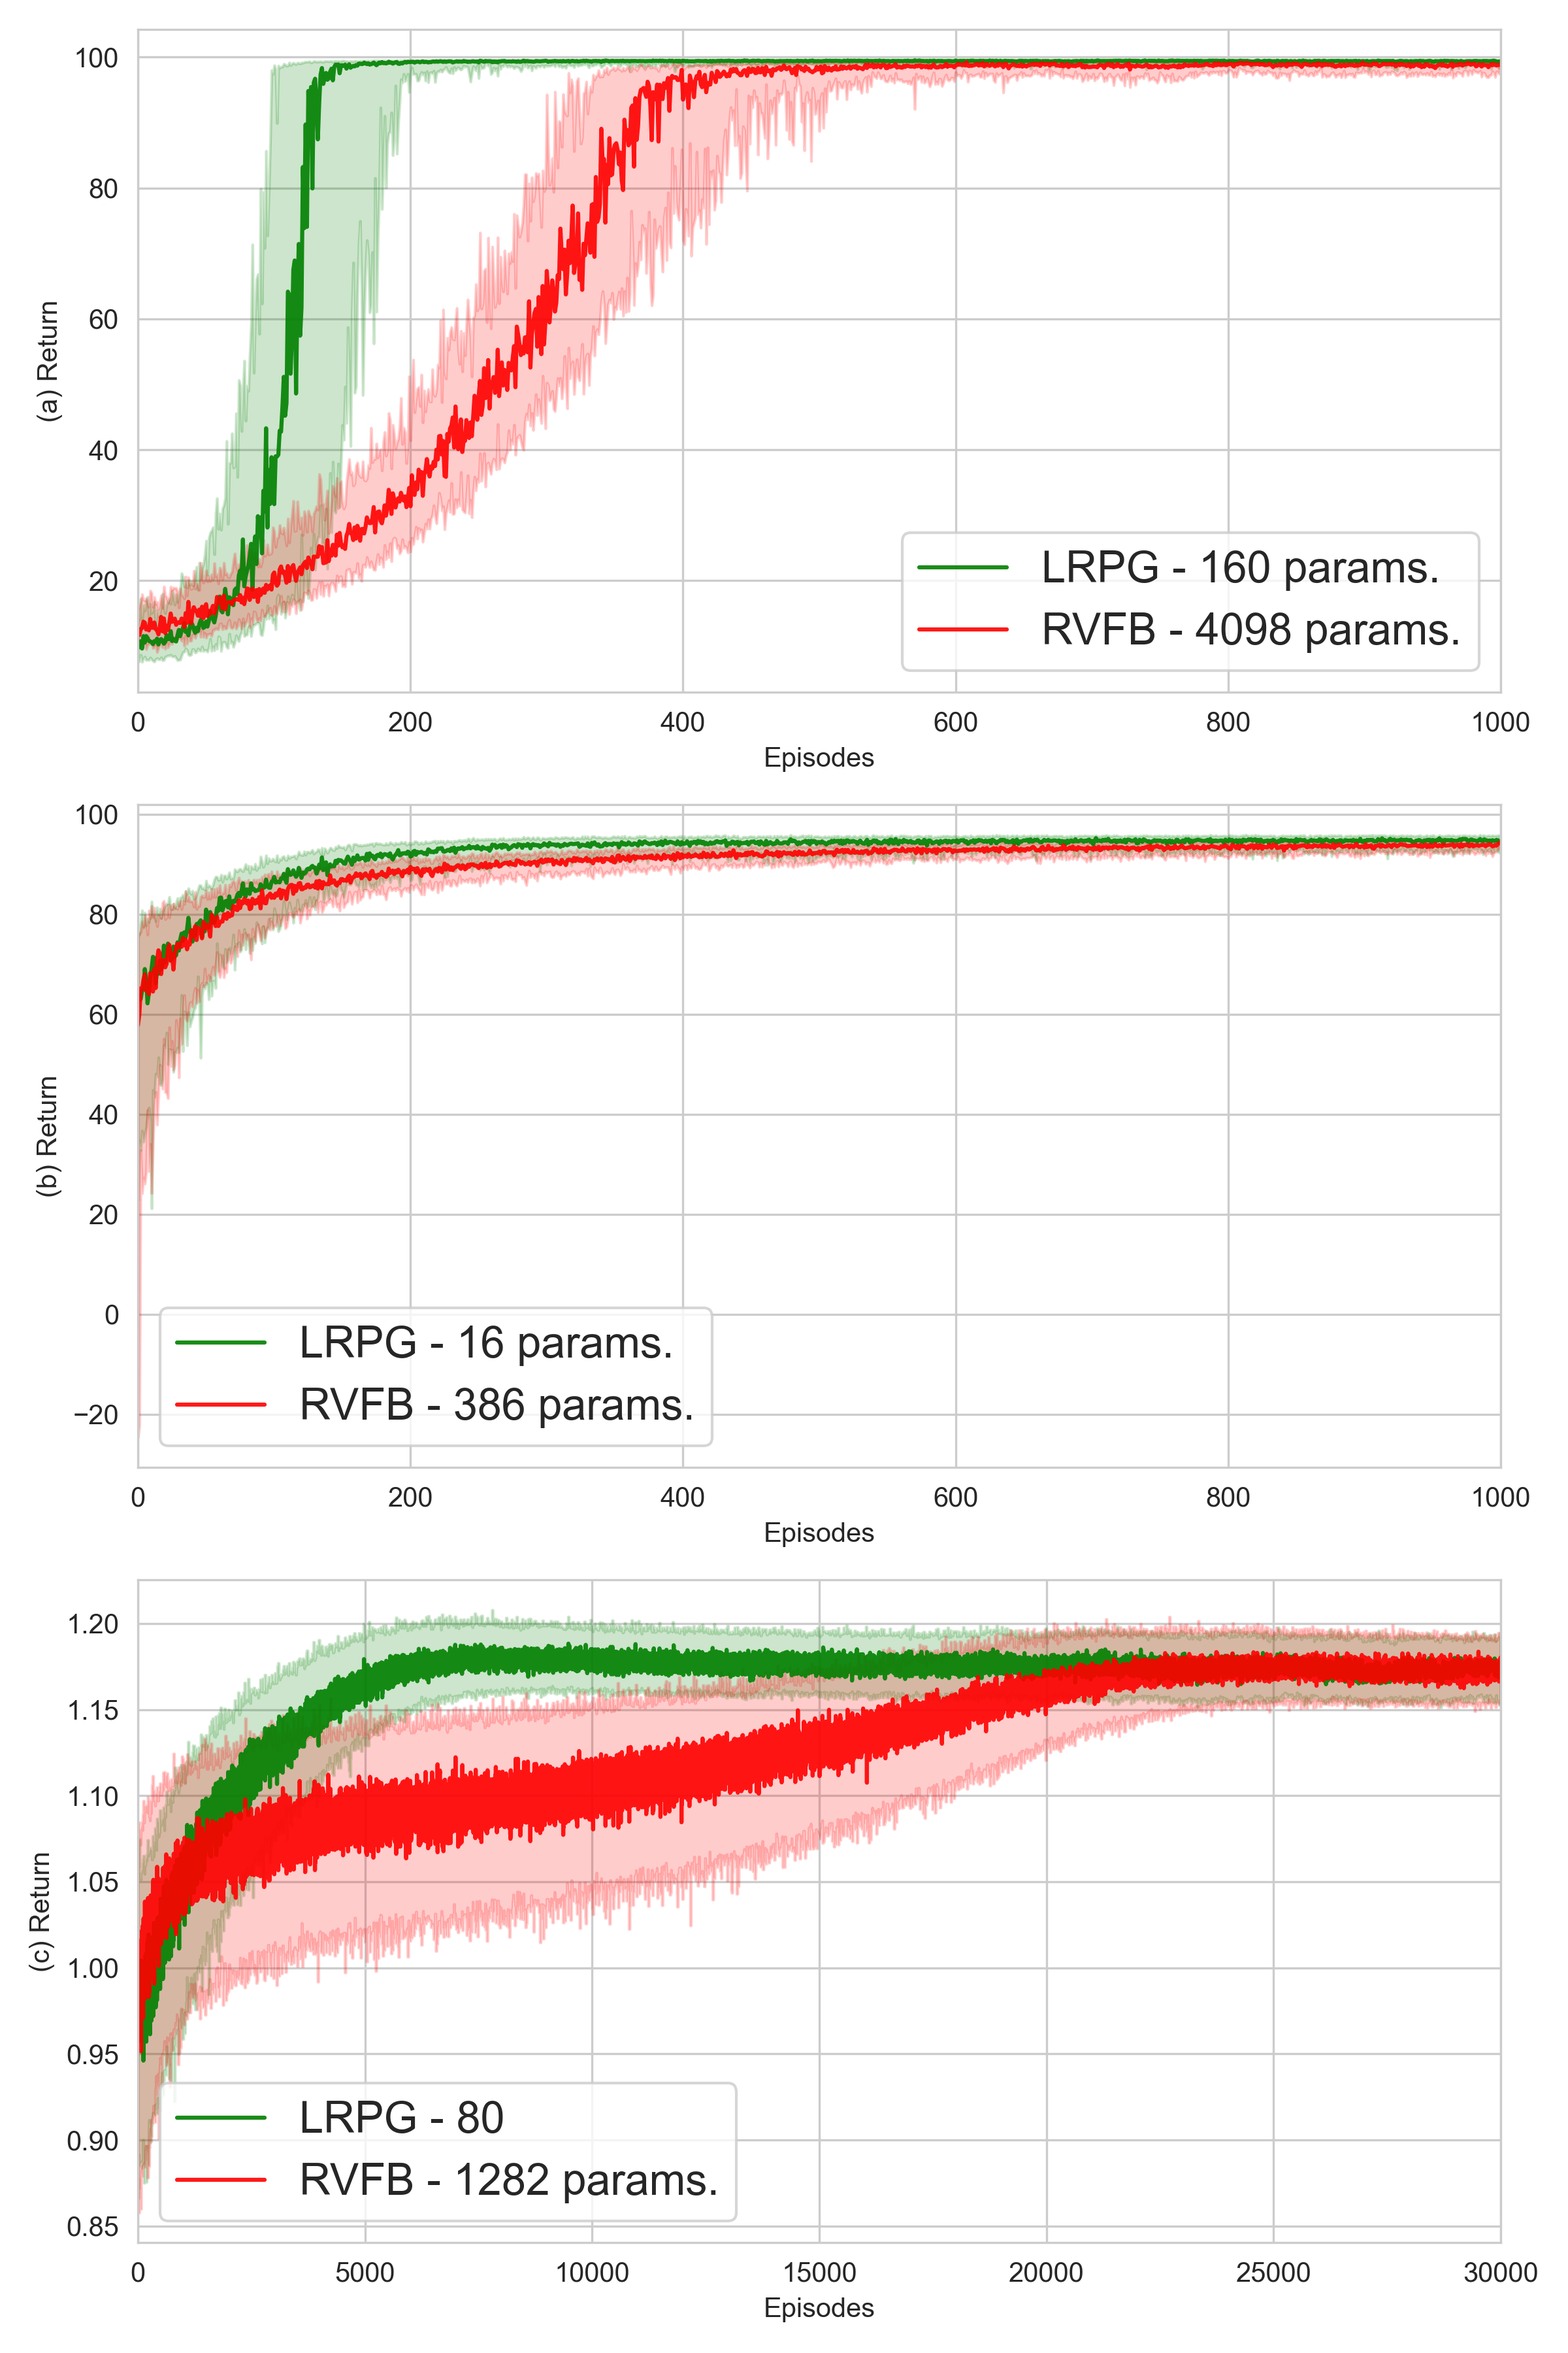
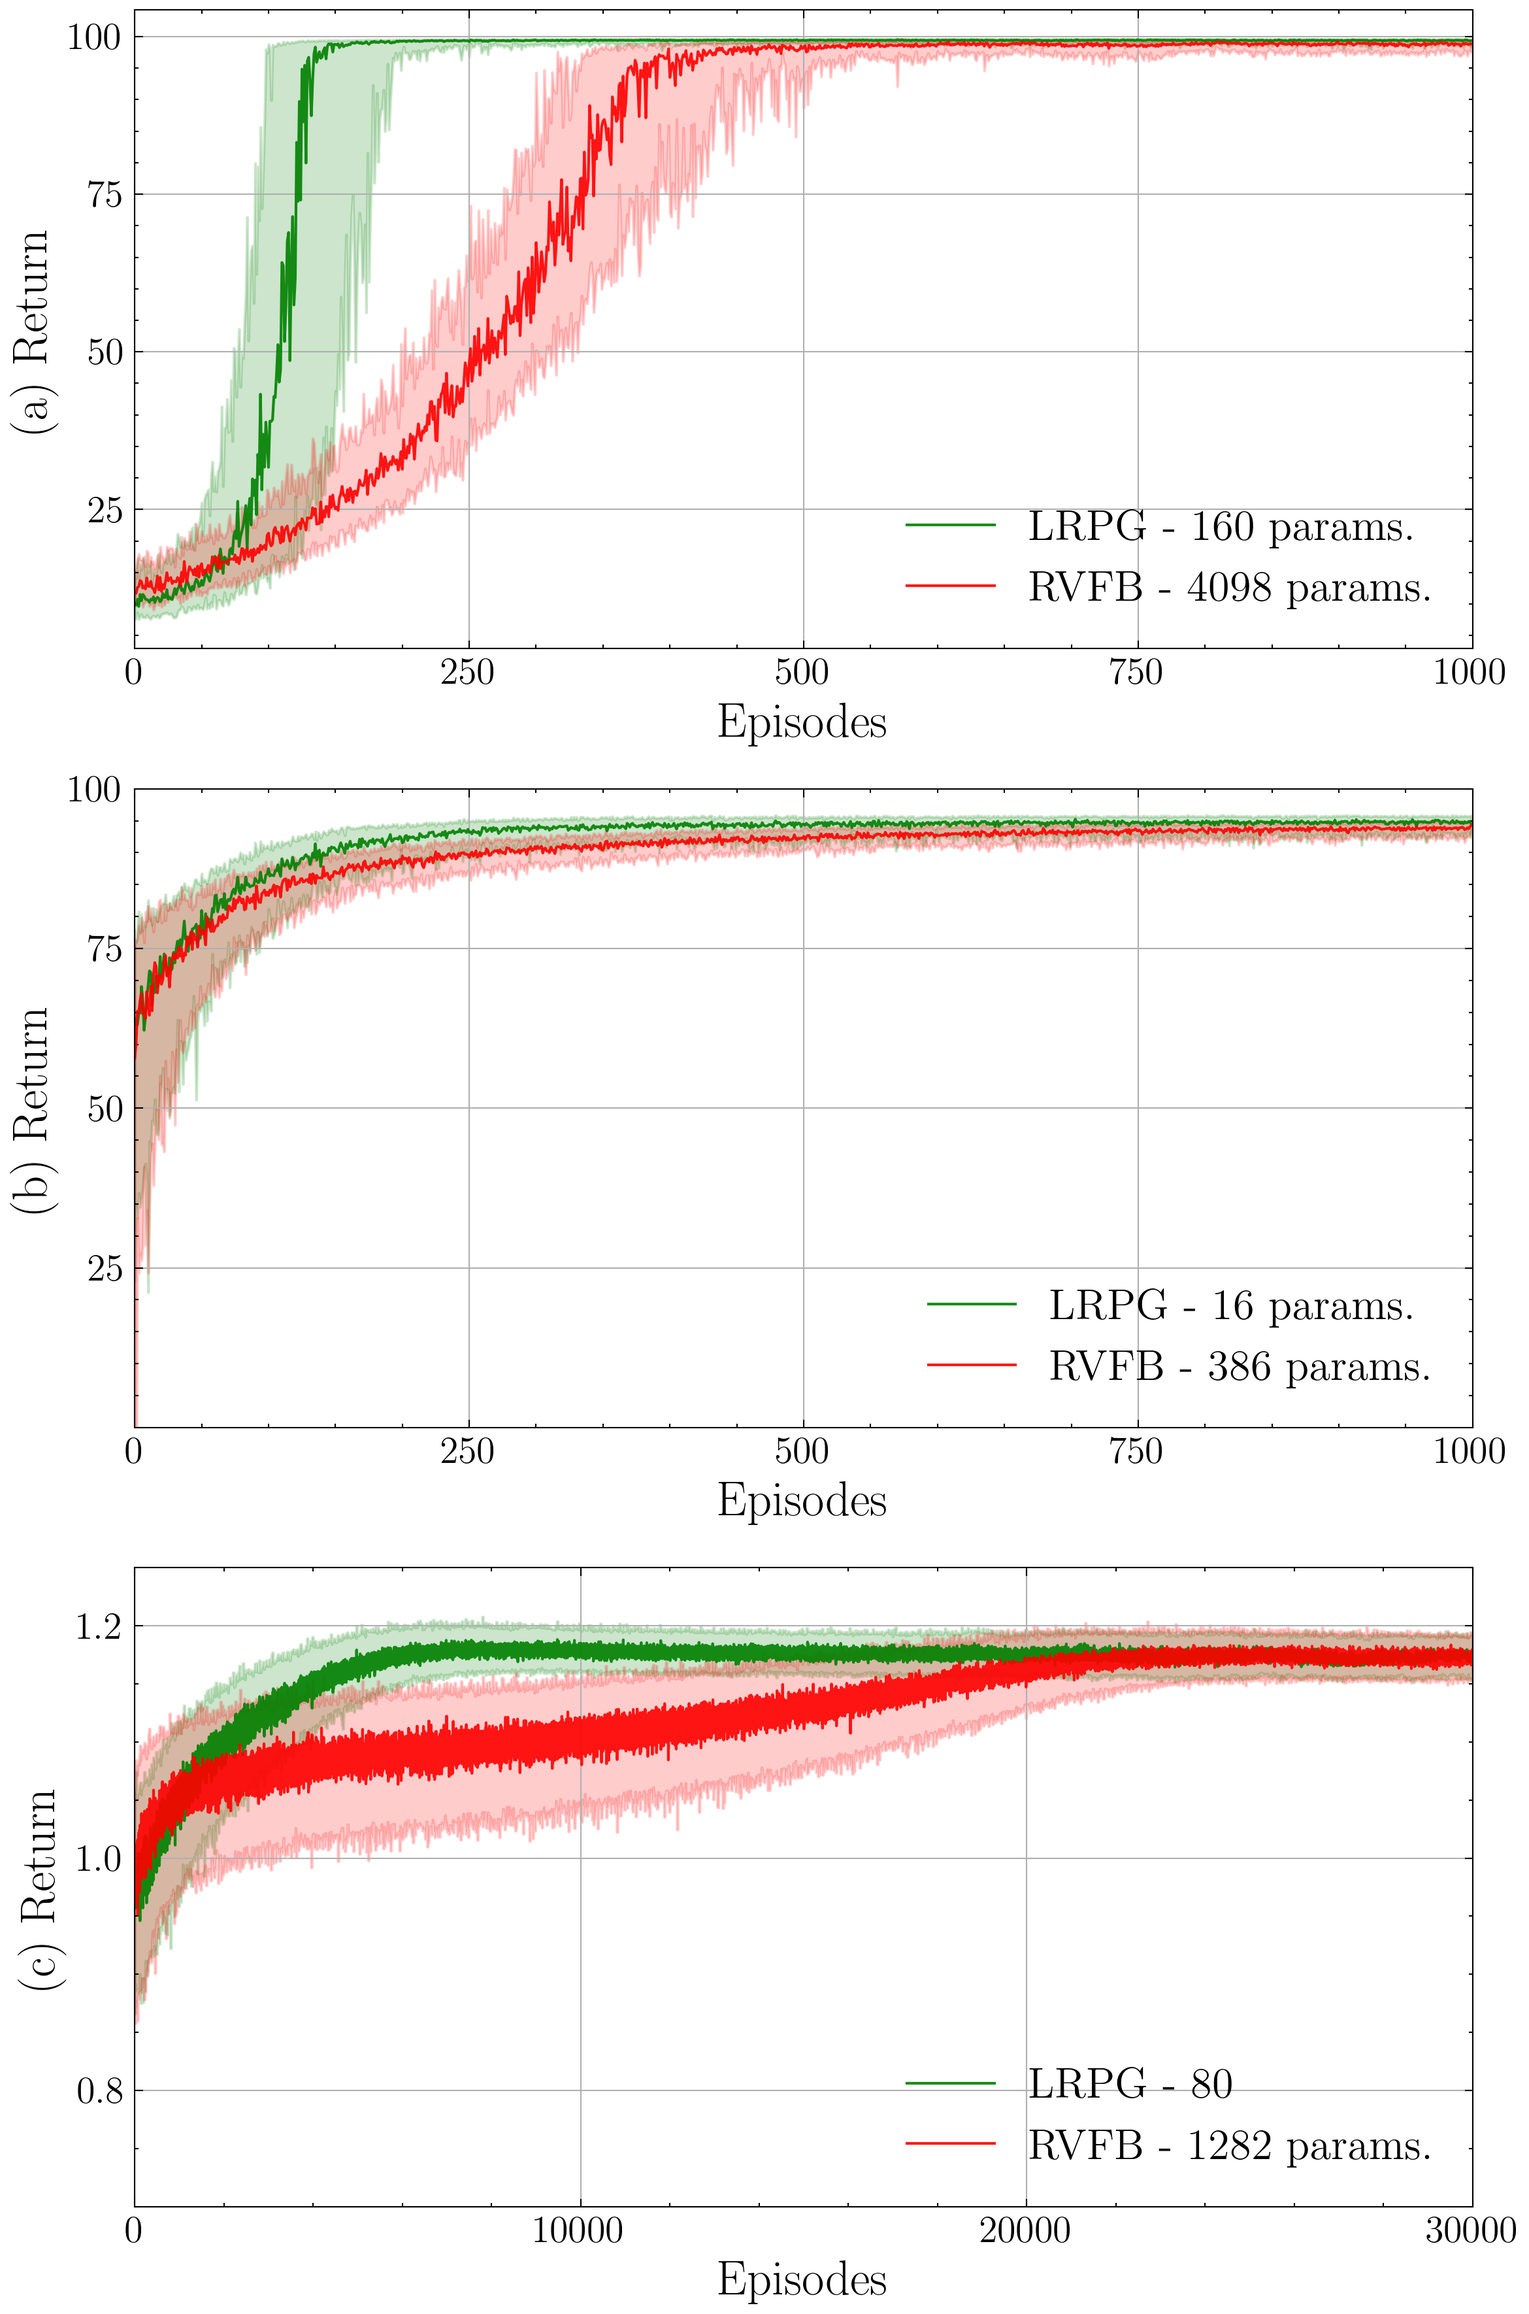
features: improvement in plots

diff --git a/4_plot.py b/4_plot.py
@@ -39,38 +39,51 @@ if __name__ == "__main__":
     acro_time = np.arange(acro_nn.size)
     rock_time = np.arange(rock_nn.size)
 
-    fig, ax = plt.subplots(3, figsize=[8, 12])
+    with plt.style.context(['science'], ['ieee']):
+        fig, ax = plt.subplots(3, figsize=[8, 12])
 
-    plt.rc('axes', titlesize=16)     # fontsize of the axes title
-    plt.rc('axes', labelsize=16)    # fontsize of the x and y labels
-    plt.rc('legend', fontsize=16)    # legend fontsize
+        plt.rc('legend', fontsize=16)    # legend fontsize
 
-    ax[0].plot(pend_time, pend_lr, color='g', label='LRPG - 160 params.', alpha=ALPHA)
-    ax[0].fill_between(pend_time, pend_lr_low, pend_lr_up, color='g', alpha=ALPHA_BACK)
-    ax[0].plot(pend_time, pend_nn, color='r', label='RVFB - 4098 params.', alpha=ALPHA)
-    ax[0].fill_between(pend_time, pend_nn_low, pend_nn_up, color='r', alpha=ALPHA_BACK)
-    ax[0].set_ylabel('(a) Return')
-    ax[0].set_xlabel('Episodes')
-    ax[0].set_xlim(0, 1000)
-    ax[0].legend()
+        ax[0].plot(pend_time, pend_lr, color='g', label='LRPG - 160 params.', alpha=ALPHA)
+        ax[0].fill_between(pend_time, pend_lr_low, pend_lr_up, color='g', alpha=ALPHA_BACK)
+        ax[0].plot(pend_time, pend_nn, color='r', label='RVFB - 4098 params.', alpha=ALPHA)
+        ax[0].fill_between(pend_time, pend_nn_low, pend_nn_up, color='r', alpha=ALPHA_BACK)
+        ax[0].set_ylabel('(a) Return', fontsize=18)
+        ax[0].set_xlabel('Episodes', fontsize=18)
+        ax[0].set_xlim(0, 1000)
+        ax[0].legend(loc='lower right')
+        ax[0].set_xticks([0, 250, 500, 750, 1000])
+        ax[0].set_yticks([25, 50, 75, 100])
+        ax[0].tick_params(axis='both', which='major', labelsize=14)
+        ax[0].grid()
 
-    ax[1].plot(acro_time, acro_lr, color='g', label='LRPG - 16 params.', alpha=ALPHA)
-    ax[1].fill_between(acro_time, acro_lr_low, acro_lr_up, color='g', alpha=ALPHA_BACK)
-    ax[1].plot(acro_time, acro_nn, color='r', label='RVFB - 386 params.', alpha=ALPHA)
-    ax[1].fill_between(acro_time, acro_nn_low, acro_nn_up, color='r', alpha=ALPHA_BACK)
-    ax[1].set_ylabel('(b) Return')
-    ax[1].set_xlabel('Episodes')
-    ax[1].set_xlim(0, 1000)
-    ax[1].legend()
+        ax[1].plot(acro_time, acro_lr, color='g', label='LRPG - 16 params.', alpha=ALPHA)
+        ax[1].fill_between(acro_time, acro_lr_low, acro_lr_up, color='g', alpha=ALPHA_BACK)
+        ax[1].plot(acro_time, acro_nn, color='r', label='RVFB - 386 params.', alpha=ALPHA)
+        ax[1].fill_between(acro_time, acro_nn_low, acro_nn_up, color='r', alpha=ALPHA_BACK)
+        ax[1].set_ylabel('(b) Return', fontsize=18)
+        ax[1].set_xlabel('Episodes', fontsize=18)
+        ax[1].set_xlim(0, 1000)
+        ax[1].set_ylim(0, 100)
+        ax[1].legend(loc='lower right')
+        ax[1].set_xticks([0, 250, 500, 750, 1000], fontsize=14)
+        ax[1].set_yticks([25, 50, 75, 100], fontsize=14)
+        ax[1].tick_params(axis='both', which='major', labelsize=14)
+        ax[1].grid()
 
-    ax[2].plot(rock_time, rock_lr, color='g', label='LRPG - 80', alpha=ALPHA)
-    ax[2].fill_between(rock_time, rock_lr_low, rock_lr_up, color='g', alpha=ALPHA_BACK)
-    ax[2].plot(rock_time, rock_nn, color='r', label='RVFB - 1282 params.', alpha=ALPHA)
-    ax[2].fill_between(rock_time, rock_nn_low, rock_nn_up, color='r', alpha=ALPHA_BACK)
-    ax[2].set_ylabel('(c) Return')
-    ax[2].set_xlabel('Episodes')
-    ax[2].set_xlim(0, 30000)
-    ax[2].legend()
+        ax[2].plot(rock_time, rock_lr, color='g', label='LRPG - 80', alpha=ALPHA)
+        ax[2].fill_between(rock_time, rock_lr_low, rock_lr_up, color='g', alpha=ALPHA_BACK)
+        ax[2].plot(rock_time, rock_nn, color='r', label='RVFB - 1282 params.', alpha=ALPHA)
+        ax[2].fill_between(rock_time, rock_nn_low, rock_nn_up, color='r', alpha=ALPHA_BACK)
+        ax[2].set_ylabel('(c) Return', fontsize=18)
+        ax[2].set_xlabel('Episodes', fontsize=18)
+        ax[2].set_xlim(0, 30000)
+        ax[2].set_ylim(0.7, 1.25)
+        ax[2].legend(loc='lower right')
+        ax[2].set_xticks([0, 10000, 20000, 30000], fontsize=14)
+        ax[2].set_yticks([0.8, 1.0, 1.2], fontsize=14)
+        ax[2].tick_params(axis='both', which='major', labelsize=14)
+        ax[2].grid()
 
-    plt.tight_layout()
-    fig.savefig('figures/fig1.png', dpi=300)
+        plt.tight_layout()
+        fig.savefig('figures/fig1.png', dpi=300)
